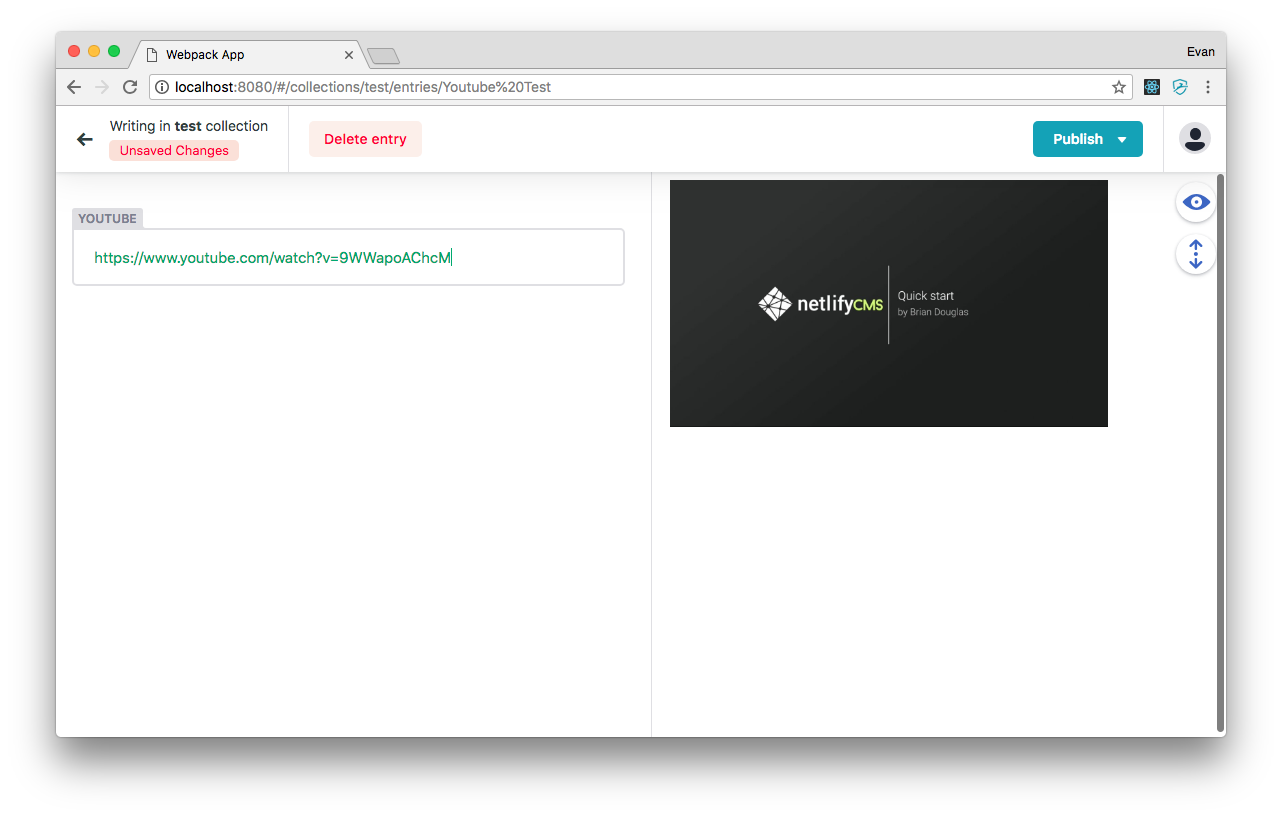
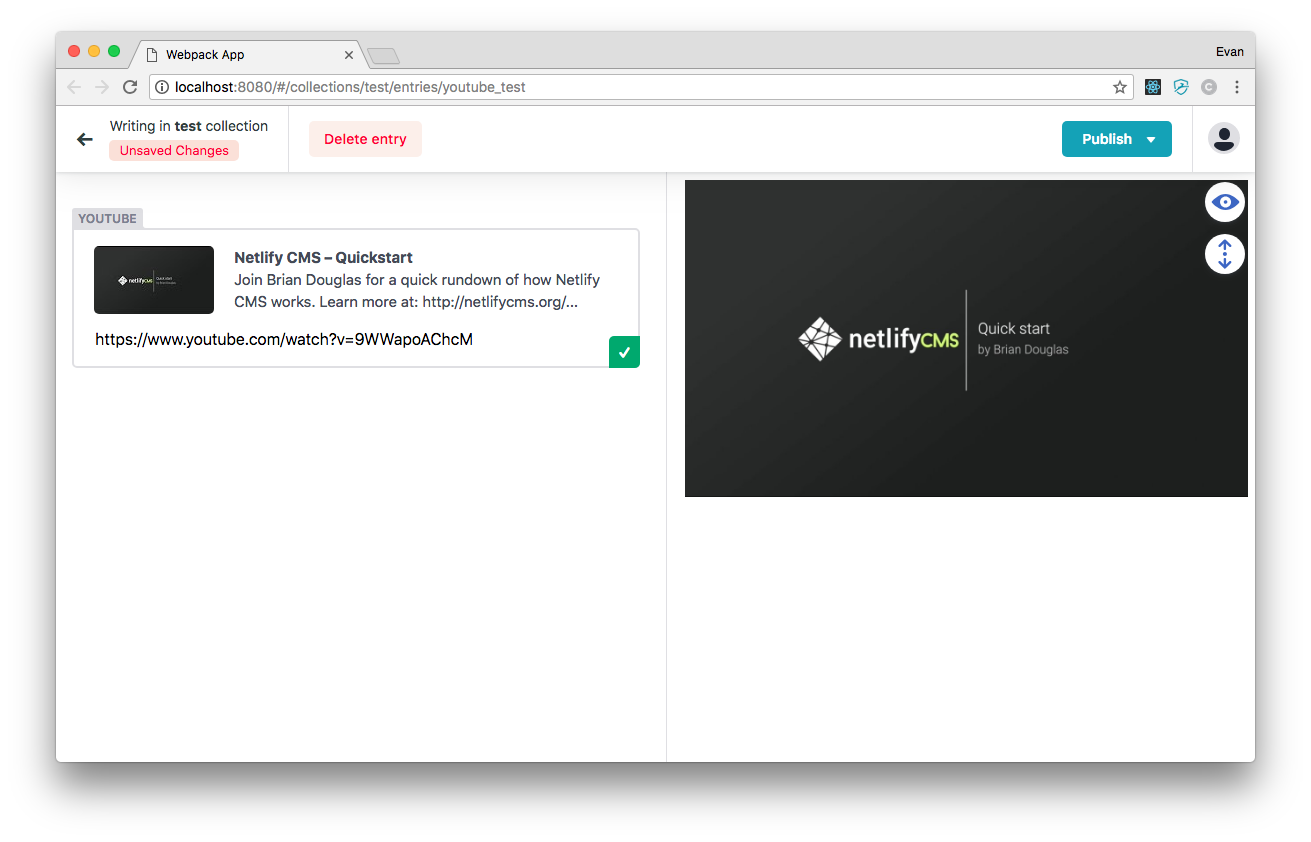
Enhanced Youtube Widget Control

diff --git a/src/Control.js b/src/Control.js
@@ -5,18 +5,42 @@ import urlParser from "js-video-url-parser";
 export default class Control extends React.Component {
 	constructor(props) {
 		super(props);
-		this.state = { valid: false };
+		this.state = { valid: false, data: {} };
 	}
 	static propTypes = {
 		onChange: PropTypes.func.isRequired,
 		field: PropTypes.object,
 		forID: PropTypes.string,
 		value: PropTypes.node,
-		classNameWrapper: PropTypes.string.isRequired
+		classNameWrapper: PropTypes.string.isRequired,
+		setActiveStyle: PropTypes.func.isRequired,
+		setInactiveStyle: PropTypes.func.isRequired
 	};
 
 	static defaultProps = {
 		value: ""
+	};
+
+	fetchFromAPI = e => {
+		const { id = "" } = urlParser.parse(e.target.value) || "";
+		const APIKey = this.props.field.get("APIkey");
+		const data = fetch(
+			`https://www.googleapis.com/youtube/v3/videos?part=snippet&id=${id}&key=${APIKey}`
+		)
+			.then(res => res.json())
+			.then(json => {
+				if (json !== undefined) {
+					this.setState({ valid: true, data: json.items[0].snippet });
+				} else {
+					this.setState({ valid: false });
+				}
+			})
+			.catch(err => {
+				this.setState({ valid: false, data: {} });
+				return false;
+			});
+
+		this.validateURL(e);
 	};
 
 	validateURL = e => {
@@ -26,14 +50,28 @@ export default class Control extends React.Component {
 			this.setState({ valid: false });
 		}
 
+		this.writeOut(e);
+	};
+
+	writeOut = e => {
 		if (this.props.field.get("extraInfo")) {
-			const { id, provider, mediaType } = urlParser.parse(e.target.value);
-			this.props.onChange({
-				url: e.target.value,
-				id: id,
-				provider: provider,
-				mediaType: mediaType
-			});
+			try {
+				const { id, provider, mediaType } = urlParser.parse(e.target.value);
+				const videoInfo = urlParser.parse(e.target.value);
+				this.props.onChange({
+					url: e.target.value,
+					id: id,
+					mediaType: mediaType,
+					imageURL: urlParser.create({
+						videoInfo,
+						format: "longImage",
+						params: { imageQuality: "maxresdefault" }
+					})
+				});
+			} catch (err) {
+				console.error("Not a valid Youtube URL");
+				this.props.onChange(e.target.value);
+			}
 		} else {
 			this.props.onChange(e.target.value);
 		}
@@ -44,22 +82,98 @@ export default class Control extends React.Component {
 	};
 
 	render() {
-		const { forID, value, onChange, classNameWrapper } = this.props;
+		const {
+			forID,
+			value,
+			onChange,
+			classNameWrapper,
+			setActiveStyle,
+			setInactiveStyle
+		} = this.props;
 		const { valid } = this.state;
 		const extraInfo = this.props.field.get("extraInfo");
+		const APIKey = this.props.field.get("APIkey");
 
-		return (
-			<input
-				type="text"
-				id={forID}
-				style={{
-					borderColor: valid ? "#00A86B" : ""
-				}}
-				className={classNameWrapper}
-				value={extraInfo ? value.url : value}
-				valid={valid}
-				onChange={this.validateURL}
-			/>
-		);
+		if (APIKey) {
+			const { data } = this.state;
+			return (
+				<div
+					className="nc-imageControl-imageUpload"
+					id={forID}
+					className={classNameWrapper}
+					onFocus={setActiveStyle}
+					onBlur={setInactiveStyle}>
+					<span className="nc-imageControl-message">
+						{data.title && valid ? (
+							<div className="nc-imageControl-content">
+								<div
+									style={{ flexShrink: 0, width: 120, height: 82 }}
+									className="nc-imageControl-imageWrapper">
+									<img
+										src={data.thumbnails.default.url}
+										style={{
+											width: 120,
+											height: 67.5,
+											objectFit: "cover"
+										}}
+										alt={data.title}
+									/>
+								</div>
+								<div className="nc-imageControl-textWrapper">
+									<strong
+										style={{ display: "block" }}
+										className="nc-imageControl-title">
+										{data.title}
+									</strong>
+									<span className="nc-imageControl-description">
+										{`${data.description.substring(150, length - 1)}...`}
+									</span>
+									<span
+										style={{
+											position: "absolute",
+											bottom: -2,
+											right: -2,
+											padding: "5px 10px",
+											borderRadius: "5px 0",
+											color: "white",
+											backgroundColor: "#00A86B"
+										}}
+										className="nc-imageControl-validation">
+										✓
+									</span>
+								</div>
+							</div>
+						) : (
+							""
+						)}
+						<input
+							type="text"
+							style={{
+								width: "100%",
+								fontSize: "1rem"
+							}}
+							value={extraInfo ? value.url : value}
+							valid={valid}
+							placeholder={`Youtube URL`}
+							onChange={this.fetchFromAPI}
+						/>
+					</span>
+				</div>
+			);
+		} else {
+			return (
+				<input
+					type="text"
+					id={forID}
+					className={classNameWrapper}
+					value={extraInfo ? value.url : value}
+					valid={valid}
+					placeholder={`Youtube URL`}
+					onChange={this.validateURL}
+					onFocus={setActiveStyle}
+					onBlur={setInactiveStyle}
+				/>
+			);
+		}
 	}
 }

diff --git a/src/Preview.js b/src/Preview.js
@@ -11,34 +11,33 @@ export default class Preview extends React.Component {
 	}
 
 	getImage(videoInfo) {
-		return urlParser.create({
-			videoInfo,
-			format: "longImage",
-			params: { imageQuality: "maxresdefault" }
-		});
+		if (videoInfo) {
+			return urlParser.create({
+				videoInfo,
+				format: "longImage",
+				params: { imageQuality: "maxresdefault" }
+			});
+		}
 	}
 
 	render() {
 		const value = this.props.value;
-		const videoInfo =
-			value === typeof String ? urlParser.parse(value) : value;
-		const imageURL = this.getImage(videoInfo);
+		const { url, id, mediaType, provider = "youtube" } = value;
+		const { imageURL = "" } = this.getImage({ url, id, mediaType, provider });
 
 		console.log(value);
 
 		return (
 			<div className="yt-widgetPreview">
-				<img
-					style={{ width: "100%" }}
-					src={
-						imageURL
-							? imageURL
-							: `https://via.placeholder.com/720x405?text=${
-									videoInfo.provider
-							  }+${videoInfo.id}`
-					}
-					alt={`${videoInfo.provider} Video Preview`}
-				/>
+				{value.imageURL || imageURL ? (
+					<img
+						style={{ width: "100%" }}
+						src={value.imageURL ? value.imageURL : imageURL}
+						alt="Youtube Video Preview"
+					/>
+				) : (
+					""
+				)}
 			</div>
 		);
 	}

diff --git a/dev/index.js b/dev/index.js
@@ -22,7 +22,9 @@ const config = {
 						{
 							name: "youtube_widget",
 							label: "Youtube",
-							widget: "youtube"
+							widget: "youtube",
+							extraInfo: true,
+							APIkey: "AIzaSyB1-hj06noPkeA7RHv07Hex3E53M87RMJE"
 						}
 					]
 				}

diff --git a/README.md b/README.md
@@ -29,7 +29,7 @@ CMS.registerWidget("youtube", youtubeControl, youtubePreview);
 Via `script` tag:
 
 ```html
-<script src="https://unpkg.com/netlify-cms-widget-youtube@^0.2.3"></script>
+<script src="https://unpkg.com/netlify-cms-widget-youtube@^0.3.0"></script>
 
 <script>
   CMS.registerWidget('youtube', youtubeControl, youtubePreview)
@@ -42,26 +42,37 @@ Add to your Netlify CMS configuration:
 
 ```yaml
     fields:
-      - { name: <fieldname>, label: <fieldlabel>, widget: youtube, extraInfo: false }
+      - { name: <fieldname>, label: <fieldlabel>, widget: youtube, extraInfo: false, APIkey: "<KEY>" }
 ```
 
-When `extraInfo: true` **[BETA]** the widget returns an object from [jsVideoUrlParser](https://github.com/Zod-/jsVideoUrlParser)
+Enabling `extraInfo` will return an object in frontmatter
 
-```graphql
-{
+```js
+<fieldname>:
 	url: String
 	id: String
-	provider: String
 	mediaType: String
-}
+	imageURL: String
 ```
+
+If you provide an API KEY in the configuration you will get additional information in the Control (as seen in the screenshot above). You can use this API key here to test but it's better you get your own to make sure it always works!
+
+## FAQ
+
+#### Q: My control doesn't show the title or description
+
+You need to add an API Key to the widget settings. Learn about getting an API Key [here](https://developers.google.com/youtube/v3/getting-started)
+
+#### Q: How can I get and image url in my output
+
+You need to add `extraInfo: true` to your Netlify CMS configuration <small>(_usually config.yml_)</small>
 
 ## Roadmap
 
-*   [x] Youtube Image Preview
-*   [x] Broader Video Support
+*   [x] Youtube Image in Preview
+*   [x] Extended Details in Control from Youtube Data API
+*   [x] Optional YAML object output
 *   [ ] Youtube Search function
-*   [ ] Inline Embed option
 *   [ ] Couple with a Youtube "Editor Widget"
 
 ## Support
